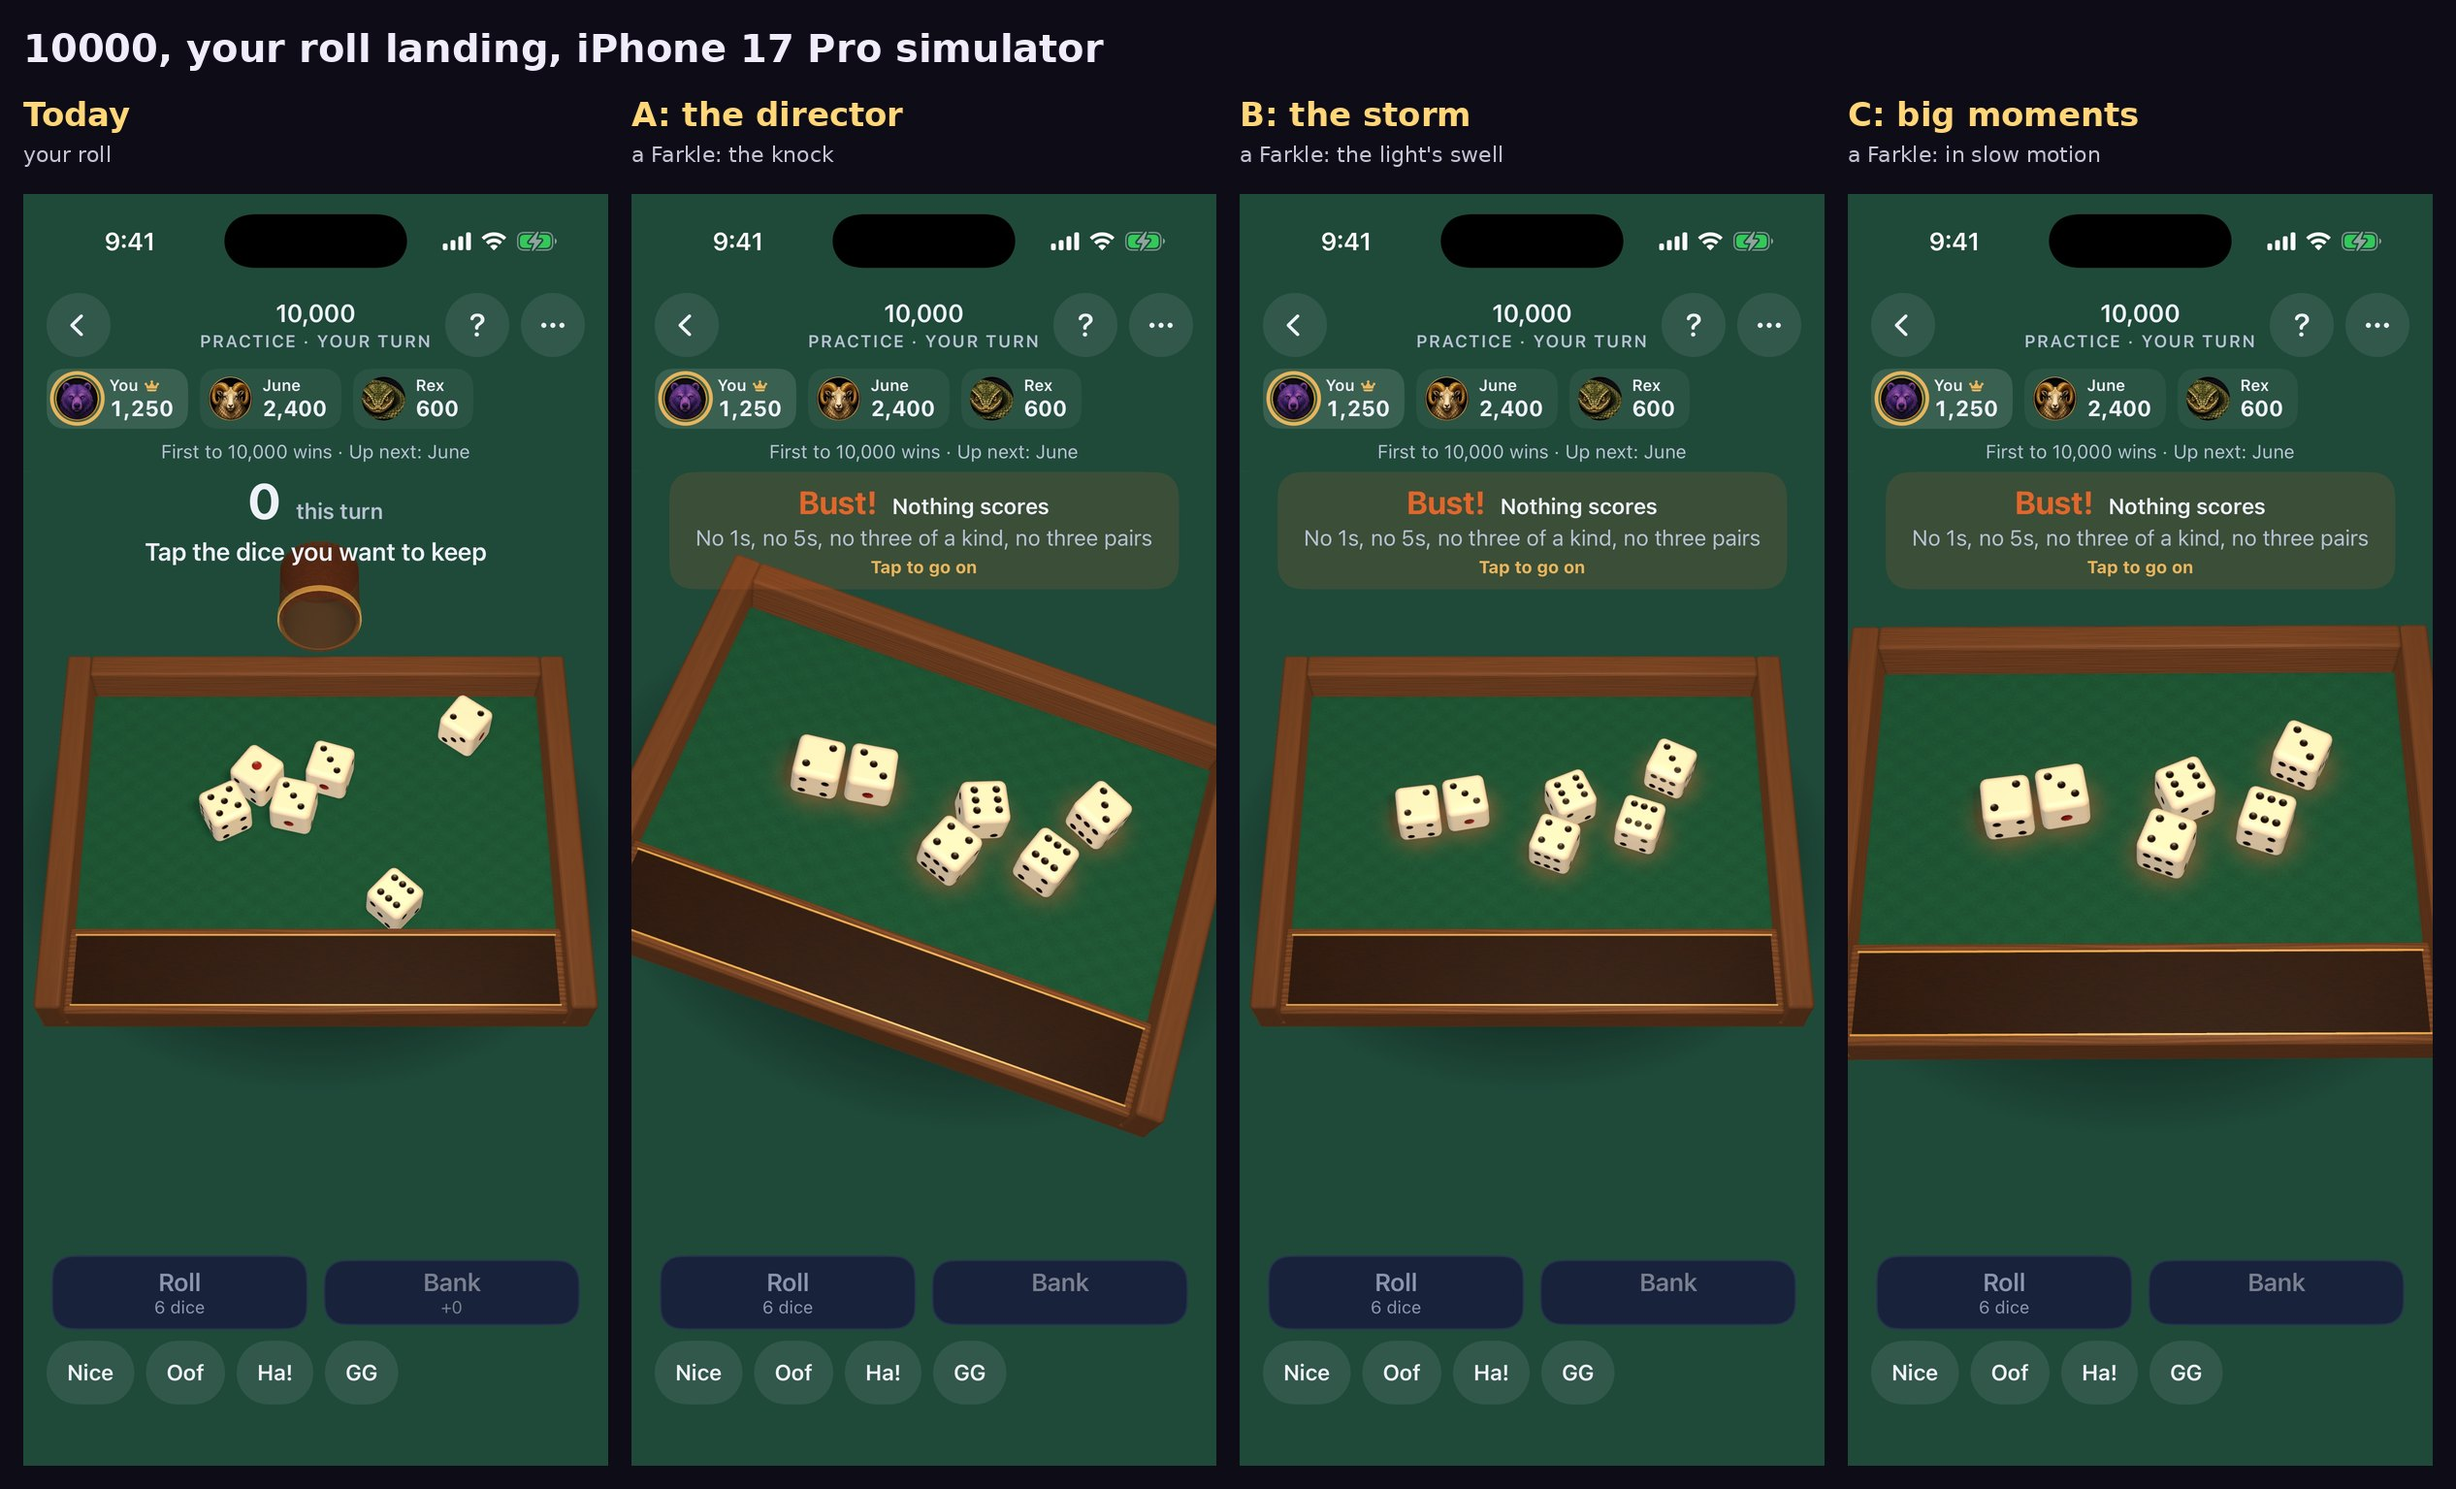
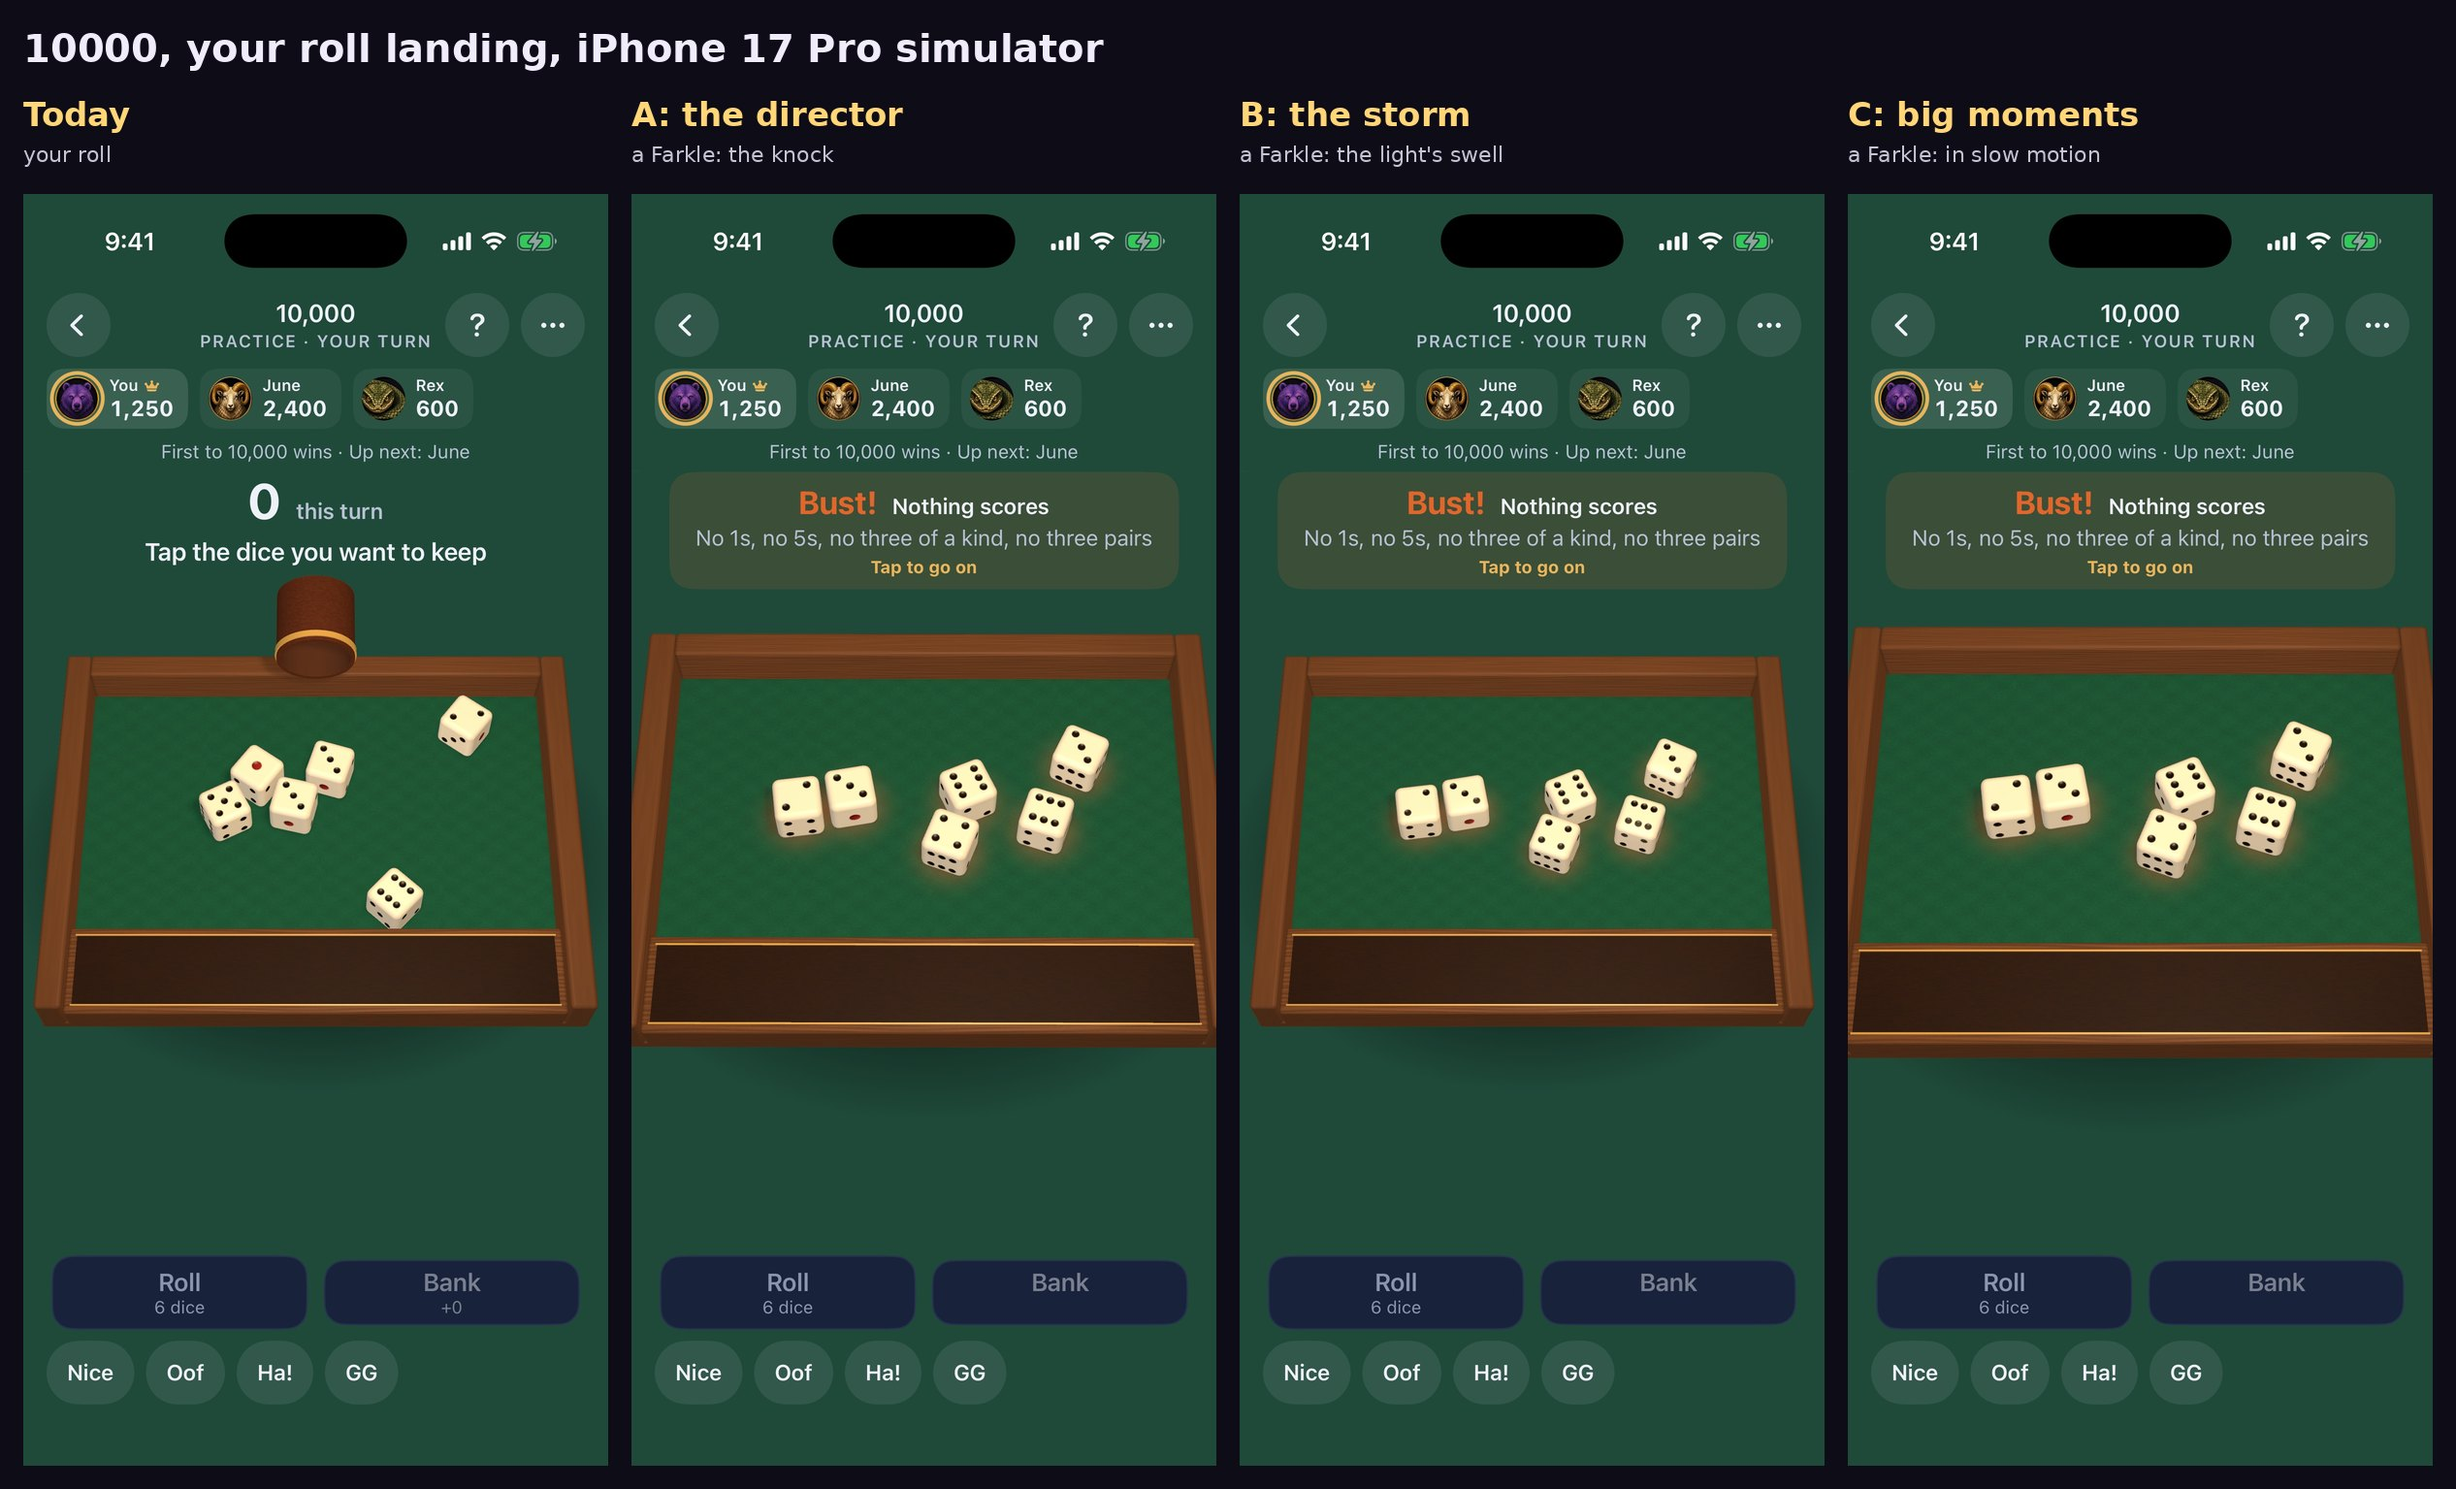
Cinematic options: the side-by-side for Tyler (#718)
Claude-Session: https://claude.ai/code/session_01EQKW17mAMZA8gjfAbkezqc

diff --git a/docs/app/cinematic/compare.md b/docs/app/cinematic/compare.md
@@ -1,0 +1,27 @@
+# Cinematic arenas: the three options side by side (#708)
+
+Built on branch `app-708-cinematic` in time2play-app, nothing on main. Each option is turned on with a launch argument
+(`-t2p-cinema director | storm | moments`); without one, the app is as it is today. The research behind them is in
+`docs/app/cinematic.md`.
+
+![Overdraft](compare-overdraft.jpg)
+![10000](compare-dice.jpg)
+
+| | A: the director | B: the storm | C: big moments only |
+| --- | --- | --- | --- |
+| What does the work | The camera: a held beat, push-in, 100 ms hit stop, trauma shake (about 1.3° at most) | The world: HDR and bloom, a staged strike (darken, leader, return stroke, afterglow), thunder from one AHAP | The camera, rarely: about a second of slow motion with the camera close in |
+| When | Every Bolt that lands (yours at full strength), every one of your rolls; storm strikes get a light rumble | Every strike (a Bolt aimed at you brings one); your dice landing get a warm swell of light | Only your Bolt, a suit change, your hot dice or Farkle; otherwise play as today |
+| Recordings (recent phone) | director/recent-overdraft.mp4, director/recent-dice.mp4 | storm/recent-overdraft.mp4, storm/recent-dice.mp4 | moments/recent-overdraft.mp4, moments/recent-dice.mp4 |
+| Older phone | director/older-*.mp4 | storm/older-*.mp4 | moments/older-*.mp4 |
+| Frame rate vs today, same run (simulator) | 38.7 vs 40.5: no real cost | 17.6 vs 24.7: about 30% fewer frames (HDR and bloom every frame) | 17.9 vs 18.0: no real cost |
+| Battery | Nothing added on the GPU | The bloom passes run every frame: a real cost; measure on a phone | Nothing added on the GPU |
+| Flashes (flashcheck.py, every recording, both phones) | 0 general, 0 red in any second | 0 general, 0 red | 0 general, 0 red |
+| Reduce Motion | Nothing | No strikes, no flashes (as today) | Nothing |
+| Readability | Hand, scores and words never move; the pile stays sharp at full shake | Cards and suit colors unchanged under HDR | Hand and words never move; the table holds still in slow motion |
+| Not judged yet | | The thunder: the simulator has no haptics, and its recordings have no sound | |
+
+Simulator frame rates swing from run to run (today's own ranged from 18 to 40), so only each run's own "today"
+comparison means anything. A phone's real frame rate and battery need TestFlight and Instruments.
+
+Combinations are cheap: the three share the same pieces (CameraDirector, StormStrike, Thunder), so, for example, C's
+moments could be told with A's camera and B's thunder.

diff --git a/docs/app/cinematic.md b/docs/app/cinematic.md
@@ -236,3 +236,13 @@ the emphasis. `CameraDirector.sequence` in T2PCore, tested in `SequenceTests`.
 - **Cost:** slow motion holds the room's next step on screen for about a second longer than today; the game itself
   isn't slowed (the room doesn't wait for the animation).
 - **Reduce Motion:** nothing at all, as in A.
+
+### Option C's Mac run and the comparison (Nov 22)
+
+Files: `docs/app/cinematic/moments/`, and the side-by-side in `docs/app/cinematic/compare.md` (with
+`compare-overdraft.jpg` and `compare-dice.jpg`, made by `scripts/cinema-compare.py`). The flash check ran on every
+recording of all three options, on both phones: 0 general and 0 red flashes in any second.
+
+Fixed along the way: the dice camera's look-at kept the node's own up vector, so the director's roll built up frame
+after frame (the first Farkle still tilted far past 2°). It now looks with world up; A and C were shot again. The
+Mac workflow now stops a simulator launch or recording that hangs (one did, Nov 22), instead of waiting out the hour.
